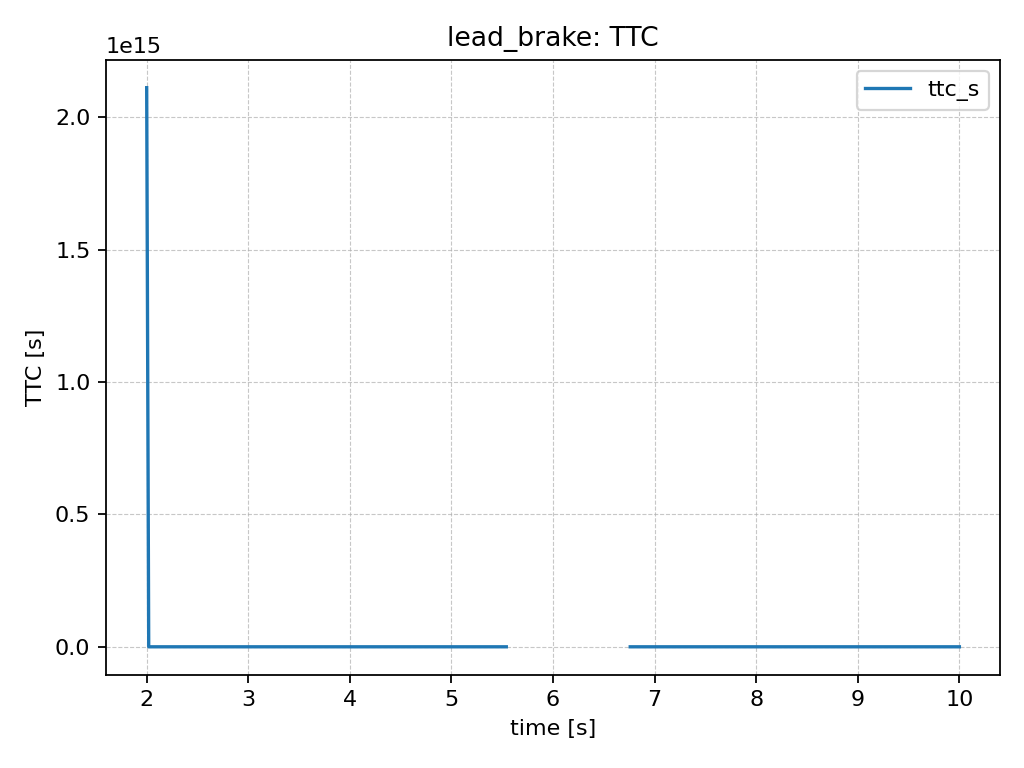
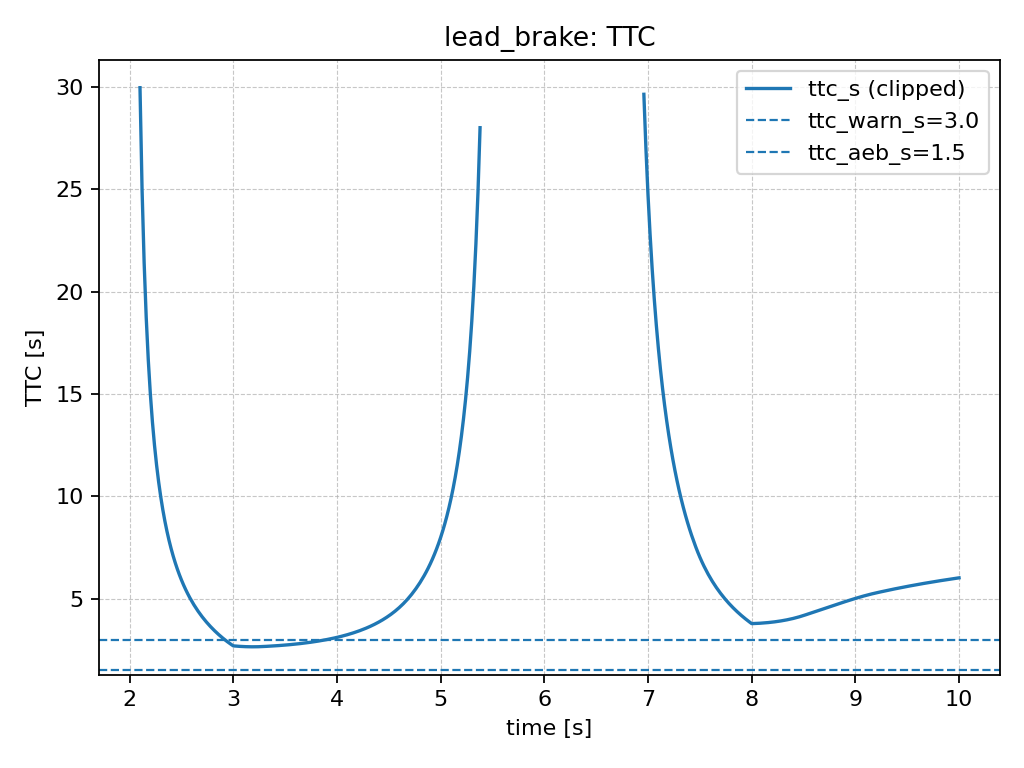
fixed error in the plot script

diff --git a/tools/plot_results.py b/tools/plot_results.py
@@ -35,9 +35,15 @@ def read_csv(path: Path):
     a_cruise = get("a_cruise_mps2", float)
     a_follow = get("a_follow_mps2", float)
 
-    # Replace inf TTC with NaN for plotting
+    # Optional: relative speed (helps remove TTC spikes when v_rel ~ 0)
+    v_rel = get("lead_rel_speed_mps", float)
+
+    # Replace inf/NaN TTC with NaN for plotting
     if ttc is not None:
-        ttc = [math.nan if (x is None or (isinstance(x, float) and not math.isfinite(x))) else x for x in ttc]
+        ttc = [
+            math.nan if (x is None or (isinstance(x, float) and not math.isfinite(x))) else x
+            for x in ttc
+        ]
 
     return {
         "t": t,
@@ -50,6 +56,7 @@ def read_csv(path: Path):
         "ttc": ttc,
         "a_cruise": a_cruise,
         "a_follow": a_follow,
+        "v_rel": v_rel,
     }
 
 
@@ -96,13 +103,42 @@ def plot_accel(data, prefix: str, outdir: Path):
     save_plot(outdir / f"{prefix}_accel.png", f"{prefix}: Acceleration Command", "time [s]", "accel [m/s^2]")
 
 
-def plot_ttc_and_mode(data, prefix: str, outdir: Path):
+def _clean_and_clip_ttc(ttc, v_rel=None, v_rel_eps=0.1, ttc_max=30.0):
+    """
+    - If |v_rel| < v_rel_eps, TTC is not meaningful -> NaN.
+    - Clip TTC values above ttc_max to NaN so plot stays readable.
+    """
+    out = []
+    for i, x in enumerate(ttc):
+        if x is None or (isinstance(x, float) and (math.isnan(x) or not math.isfinite(x))):
+            out.append(math.nan)
+            continue
+
+        # Remove spikes when rel speed is too close to zero
+        if v_rel is not None and i < len(v_rel) and v_rel[i] is not None and math.isfinite(v_rel[i]):
+            if abs(v_rel[i]) < v_rel_eps:
+                out.append(math.nan)
+                continue
+
+        # Clip for readability
+        if x > ttc_max:
+            out.append(math.nan)
+        else:
+            out.append(x)
+    return out
+
+
+def plot_ttc_and_mode(data, prefix: str, outdir: Path, ttc_warn_s=3.0, ttc_aeb_s=1.5, ttc_max=30.0):
     t = data["t"]
 
-    # TTC
+    # TTC (clean + clipped + thresholds)
     if data["ttc"] is not None:
+        ttc_plot = _clean_and_clip_ttc(data["ttc"], v_rel=data.get("v_rel"), v_rel_eps=0.1, ttc_max=ttc_max)
+
         plt.figure()
-        plt.plot(t, data["ttc"], label="ttc_s")
+        plt.plot(t, ttc_plot, label="ttc_s (clipped)")
+        plt.axhline(ttc_warn_s, linestyle="--", linewidth=1.0, label=f"ttc_warn_s={ttc_warn_s}")
+        plt.axhline(ttc_aeb_s, linestyle="--", linewidth=1.0, label=f"ttc_aeb_s={ttc_aeb_s}")
         plt.legend()
         save_plot(outdir / f"{prefix}_ttc.png", f"{prefix}: TTC", "time [s]", "TTC [s]")
 
@@ -110,7 +146,12 @@ def plot_ttc_and_mode(data, prefix: str, outdir: Path):
     if data["mode"] is not None:
         plt.figure()
         plt.step(t, data["mode"], where="post")
-        save_plot(outdir / f"{prefix}_mode.png", f"{prefix}: Mode (0=OFF,1=CRUISE,2=FOLLOW,3=AEB,4=FAULT)", "time [s]", "mode [-]")
+        save_plot(
+            outdir / f"{prefix}_mode.png",
+            f"{prefix}: Mode (0=OFF,1=CRUISE,2=FOLLOW,3=AEB,4=FAULT)",
+            "time [s]",
+            "mode [-]",
+        )
 
 
 def main():
@@ -118,6 +159,12 @@ def main():
     ap.add_argument("--csv", required=True, help="Path to CSV log (from sim_runner)")
     ap.add_argument("--outdir", default="docs/plots", help="Output directory for PNGs")
     ap.add_argument("--prefix", default=None, help="Filename prefix for plots (default: csv stem)")
+
+    # TTC plot controls
+    ap.add_argument("--ttc-warn", type=float, default=3.0, help="TTC warning threshold line [s]")
+    ap.add_argument("--ttc-aeb", type=float, default=1.5, help="TTC AEB threshold line [s]")
+    ap.add_argument("--ttc-max", type=float, default=30.0, help="Clip TTC above this value for readability [s]")
+
     args = ap.parse_args()
 
     csv_path = Path(args.csv)
@@ -129,7 +176,7 @@ def main():
     plot_speed(data, prefix, outdir)
     plot_distance(data, prefix, outdir)
     plot_accel(data, prefix, outdir)
-    plot_ttc_and_mode(data, prefix, outdir)
+    plot_ttc_and_mode(data, prefix, outdir, ttc_warn_s=args.ttc_warn, ttc_aeb_s=args.ttc_aeb, ttc_max=args.ttc_max)
 
     print(f"Wrote plots to: {outdir.resolve()}")
 
